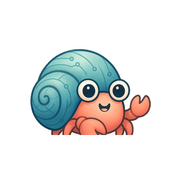
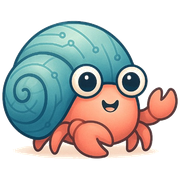
add hermit crab mascot and refine landing page copy
Mascot:
- Add hermit crab mascot to header, hero, footer, and favicon
- Remove background and shadow for clean transparent PNG
- Use plain <img> tags to avoid Next.js image optimization distortion

Copy:
- Replace "private machine/VM" language with "safe, secure, in the cloud"
- Clean up pain points: "Shared infrastructure" → "Privacy concerns"
- Update Why ClawCove pillar: "Safe, secure, and yours"
- Pricing features use "Secure, isolated cloud environment"
- FAQ: "How secure is my assistant?" replaces machine question
- Final CTA: "safe, secure, and running 24/7 in the cloud"

diff --git a/src/components/sections/hero.tsx b/src/components/sections/hero.tsx
@@ -1,4 +1,3 @@
-import Image from "next/image";
 import { FadeIn } from "@/components/animations/fade-in";
 import { WaitlistForm } from "@/components/forms/waitlist-form";
 
@@ -19,13 +18,11 @@ export function Hero() {
         <div className="mx-auto max-w-3xl text-center">
           <FadeIn>
             <div className="mb-6 flex justify-center">
-              <Image
+              <img
                 src="/mascot.png"
                 alt="ClawCove hermit crab mascot"
-                width={240}
-                height={160}
+                width={180}
                 className="drop-shadow-lg"
-                priority
               />
             </div>
           </FadeIn>
@@ -39,9 +36,9 @@ export function Hero() {
 
           <FadeIn delay={0.1}>
             <p className="mx-auto mt-6 max-w-xl text-lg leading-relaxed text-foreground-muted md:text-xl">
-              An AI assistant that works 24/7 on its own private machine —
-              drafting emails, managing your calendar, automating tasks, and
-              more. No setup. No servers. Just tell it what you need.
+              A secure, always-on AI assistant in the cloud — drafting
+              emails, managing your calendar, automating tasks, and more.
+              No setup. No servers. Just tell it what you need.
             </p>
           </FadeIn>
 
@@ -58,7 +55,7 @@ export function Hero() {
             <div className="mt-8 flex flex-wrap items-center justify-center gap-x-6 gap-y-2 text-sm text-foreground-muted">
               <span className="flex items-center gap-1.5">
                 <span className="size-1.5 rounded-full bg-success" />
-                Your own private VM
+                Safe &amp; secure in the cloud
               </span>
               <span className="flex items-center gap-1.5">
                 <span className="size-1.5 rounded-full bg-success" />

diff --git a/src/components/sections/faq.tsx b/src/components/sections/faq.tsx
@@ -20,9 +20,9 @@ const faqs = [
       "Not at all. If you can fill out a form and click a button, you can have a personal AI assistant. We ask what you want help with, configure everything for you, and connect it to your favorite channels. No coding, no command line, no servers.",
   },
   {
-    question: "What does \"your own private machine\" mean?",
+    question: "How secure is my assistant?",
     answer:
-      "Unlike most hosting services that put you on shared infrastructure, every ClawCove assistant runs on its own dedicated virtual machine. That means complete privacy — your data, your processes, and your assistant's memory are fully isolated. Think of it as your own computer in the cloud.",
+      "Every ClawCove assistant runs in its own fully isolated, encrypted environment in the cloud — not shared with anyone else. Your data, your conversations, and your assistant's memory are completely private. No one else can access them, including us.",
   },
   {
     question: "Which AI models does it use?",
@@ -42,7 +42,7 @@ const faqs = [
   {
     question: "What happens to my data?",
     answer:
-      "Your data stays yours. It lives on your dedicated virtual machine, encrypted and isolated. We never train on your data or share it. And you can export everything at any time — no lock-in, ever.",
+      "Your data stays yours. It lives in your own isolated, encrypted environment in the cloud. We never train on your data or share it. And you can export everything at any time — no lock-in, ever.",
   },
   {
     question: "When will ClawCove launch?",

diff --git a/src/components/sections/pricing.tsx b/src/components/sections/pricing.tsx
@@ -18,7 +18,7 @@ const tiers: PricingTier[] = [
     description: "Try your own AI assistant — no strings attached",
     features: [
       "1 personal assistant",
-      "Your own private VM",
+      "Secure, isolated cloud environment",
       "1,000 messages/month",
       "Single channel (Telegram or Discord)",
       "Community support",
@@ -31,7 +31,7 @@ const tiers: PricingTier[] = [
     description: "Your full-time AI, fully unlocked",
     features: [
       "1 personal assistant",
-      "Your own private VM",
+      "Secure, isolated cloud environment",
       "Unlimited messages",
       "All channels (Telegram, Discord, Slack & more)",
       "Choose your AI model",
@@ -48,7 +48,7 @@ const tiers: PricingTier[] = [
     description: "Multiple assistants, one workspace",
     features: [
       "Up to 5 assistants",
-      "Dedicated VMs per assistant",
+      "Isolated environment per assistant",
       "Unlimited messages",
       "All channels + custom integrations",
       "Shared team workspace",
@@ -126,8 +126,8 @@ export function Pricing() {
         </div>
 
         <p className="mt-8 text-center text-sm text-foreground-subtle">
-          Planned launch pricing · Every plan includes your own private virtual
-          machine
+          Planned launch pricing · Every plan runs in a secure, isolated
+          environment
         </p>
       </div>
     </section>

diff --git a/src/components/layout/navigation.tsx b/src/components/layout/navigation.tsx
@@ -1,7 +1,6 @@
 "use client";
 
 import { AnimatePresence, motion } from "framer-motion";
-import Image from "next/image";
 import { Menu, X } from "lucide-react";
 import { useCallback, useEffect, useState } from "react";
 import { Button } from "@/components/ui/button";
@@ -47,13 +46,12 @@ export function Navigation() {
           className="group flex items-center gap-2"
           aria-label="ClawCove home"
         >
-          <Image
+          <img
             src="/mascot.png"
             alt="ClawCove mascot"
             width={36}
             height={36}
             className="transition-transform group-hover:scale-110"
-            priority
           />
           <span className="text-xl font-bold tracking-tight text-foreground">
             ClawCove

diff --git a/src/components/sections/why-clawcove.tsx b/src/components/sections/why-clawcove.tsx
@@ -11,10 +11,10 @@ import { Button } from "@/components/ui/button";
 const PILLARS = [
   {
     icon: HardDrive,
-    title: "Your own private machine",
+    title: "Safe, secure, and yours",
     description:
-      "Every assistant runs on a dedicated virtual machine — not a shared container. Your data, your processes, completely isolated. Like having your own computer in the cloud.",
-    highlight: "Hypervisor-level isolation",
+      "Your assistant runs in its own fully isolated environment in the cloud — not shared with anyone else. Your data, your conversations, your memory, completely private and encrypted.",
+    highlight: "Fully isolated & encrypted",
   },
   {
     icon: Eye,

diff --git a/src/components/layout/footer.tsx b/src/components/layout/footer.tsx
@@ -1,4 +1,3 @@
-import Image from "next/image";
 import { Separator } from "@/components/ui/separator";
 
 const linkGroups = [
@@ -26,7 +25,7 @@ export function Footer() {
         <div className="flex flex-col gap-10 md:flex-row md:justify-between">
           <div className="max-w-xs">
             <div className="flex items-center gap-2">
-              <Image
+              <img
                 src="/mascot.png"
                 alt="ClawCove mascot"
                 width={28}

diff --git a/src/components/sections/pain-points.tsx b/src/components/sections/pain-points.tsx
@@ -16,9 +16,9 @@ const PAIN_POINTS = [
   },
   {
     icon: Server,
-    title: "Shared infrastructure",
+    title: "Privacy concerns",
     description:
-      "Most hosting puts you on shared containers. Your data and performance depend on strangers. You deserve your own machine.",
+      "Most hosting shares resources between users. Your conversations, your data, your assistant's memory — sitting alongside strangers. You deserve better.",
   },
 ];
 

diff --git a/src/components/sections/final-cta.tsx b/src/components/sections/final-cta.tsx
@@ -10,7 +10,7 @@ export function FinalCTA() {
           </h2>
           <p className="mt-4 text-lg text-foreground-muted">
             Join the waitlist and be the first to get your own personal
-            assistant — running 24/7 on a private machine, just for you.
+            assistant — safe, secure, and running 24/7 in the cloud.
           </p>
 
           <div className="mt-8">
